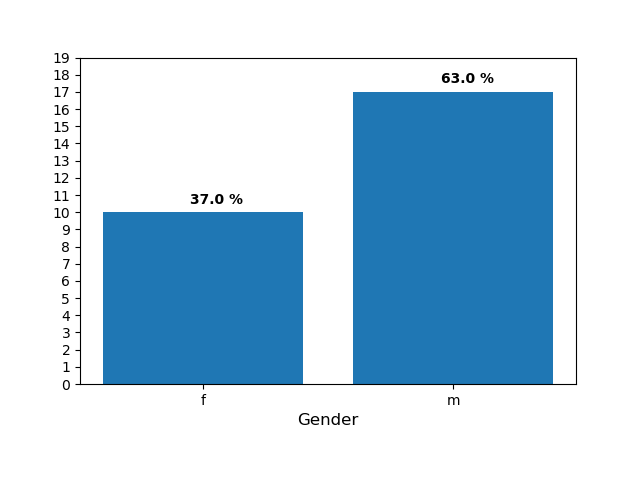
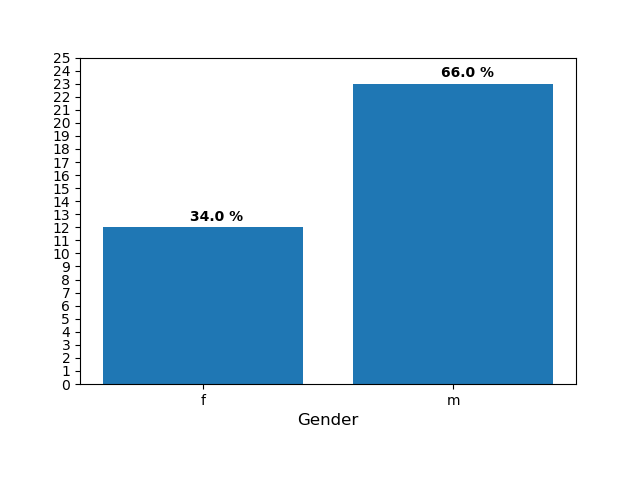
update covid19

Changed region(s): [[0.0625, 0.0938, 0.125, 0.7812], [0.1562, 0.4062, 0.5, 0.5], [0.5312, 0.125, 0.875, 0.2188]]

diff --git a/content/blog/Covid19/index.md b/content/blog/Covid19/index.md
@@ -1,6 +1,6 @@
 --- 
  title: Covid19 in Aachen (Stadt und Städteregion) 
- date: "2020-04-06T11:53:15.000Z" 
+ date: "2020-04-06T18:32:54.000Z" 
 --- 
 The city of Aachen publishes (more or less) daily updates about Covid19. It's in the form of a daily press release, so I decided to collect this data to make it more usable for further processing ([google spread sheet](https://docs.google.com/spreadsheets/d/1Th4GSgmTpX4GtcebVDzIfRuCOu2cSOc2WJCORHcCw-Y)).
 
@@ -8,7 +8,7 @@ Below is the development of cases in the Städteregion Aachen and the city of Aa
 ![Cases of Covid19](cases.png)And on a log scale: 
 ![Cases of Covid19 (log scale)](cases_log.png)And the current death toll: 
 ![Deaths from Covid19](deaths.png)And the year of birth of the deceased. Their average (median) year of birth was 1938. Which corresponds to an average age of 82.
-![Year of Birth](year.png)And the gender distribution of the deceased. 63.0 % of victms were male.
+![Year of Birth](year.png)And the gender distribution of the deceased. 66.0 % of victms were male.
 ![Gender](gender.png)
 
 ## How this site is generated 
